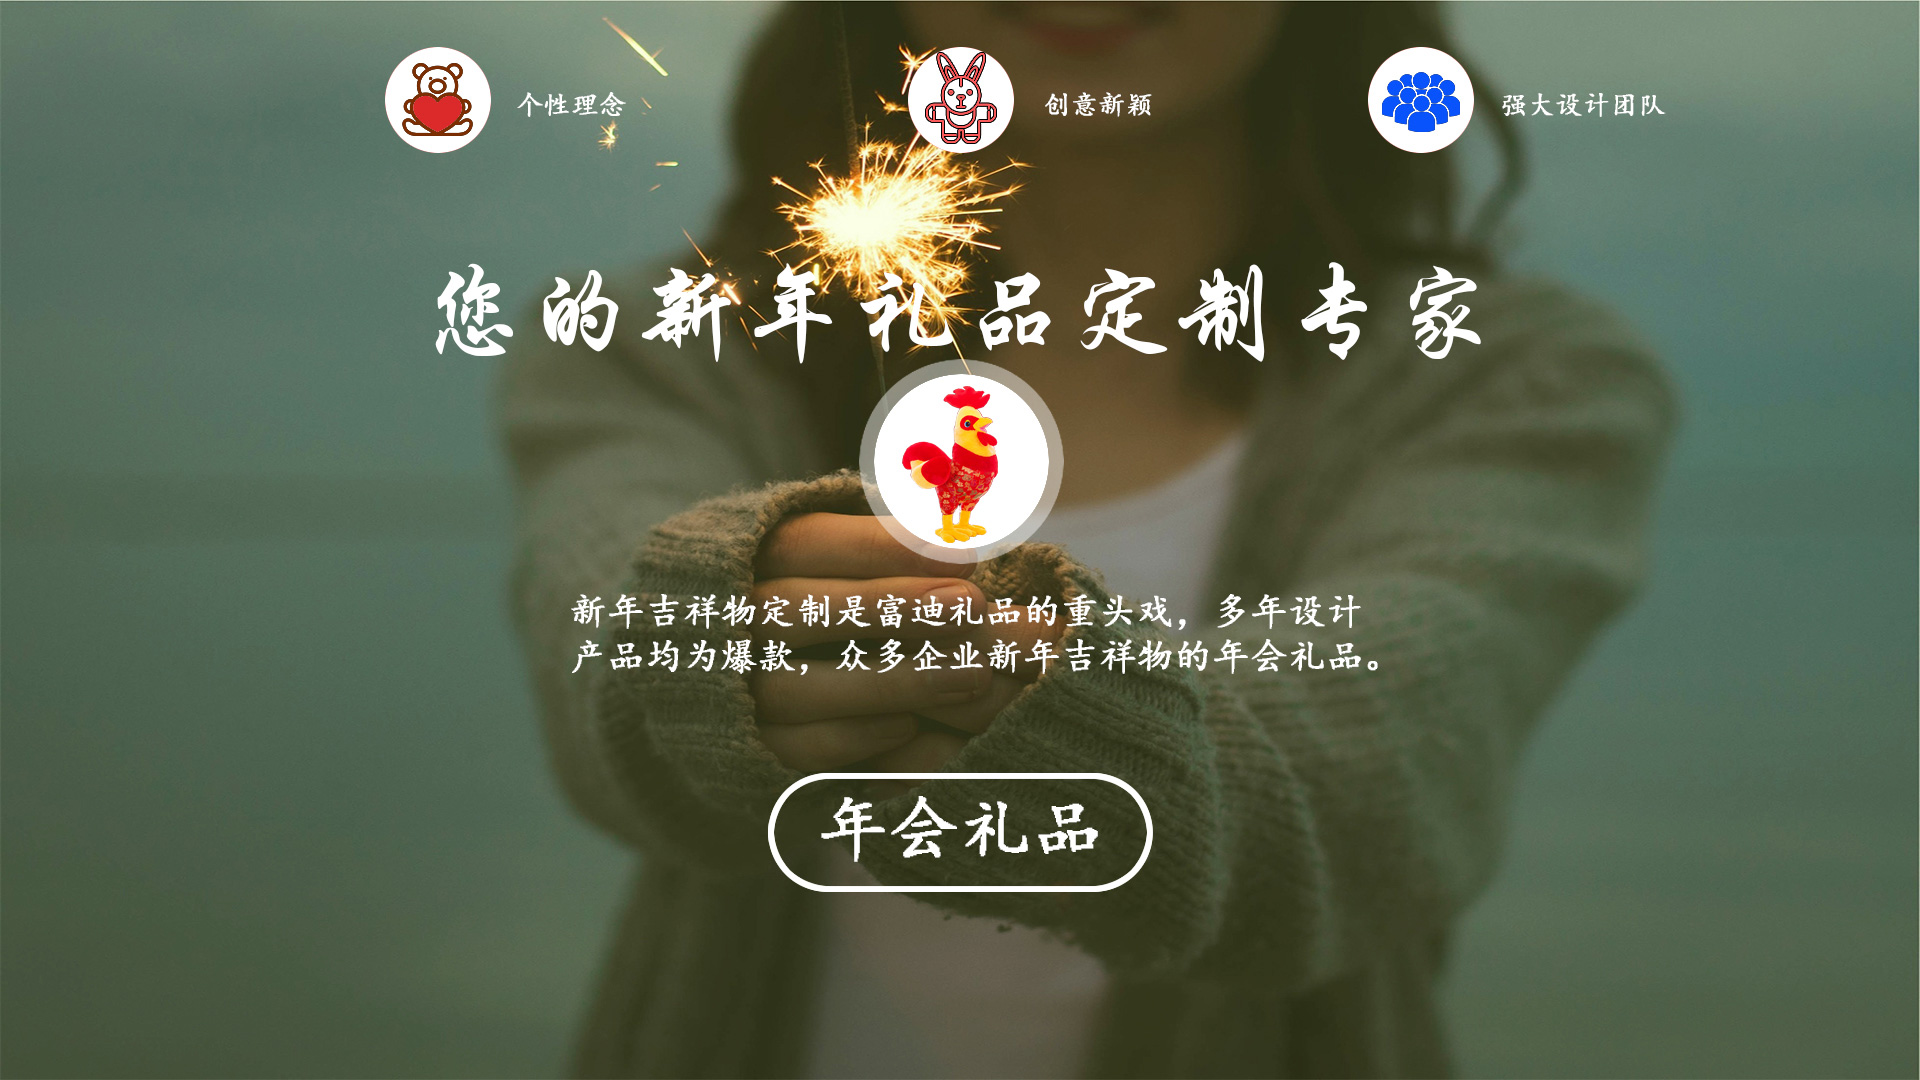
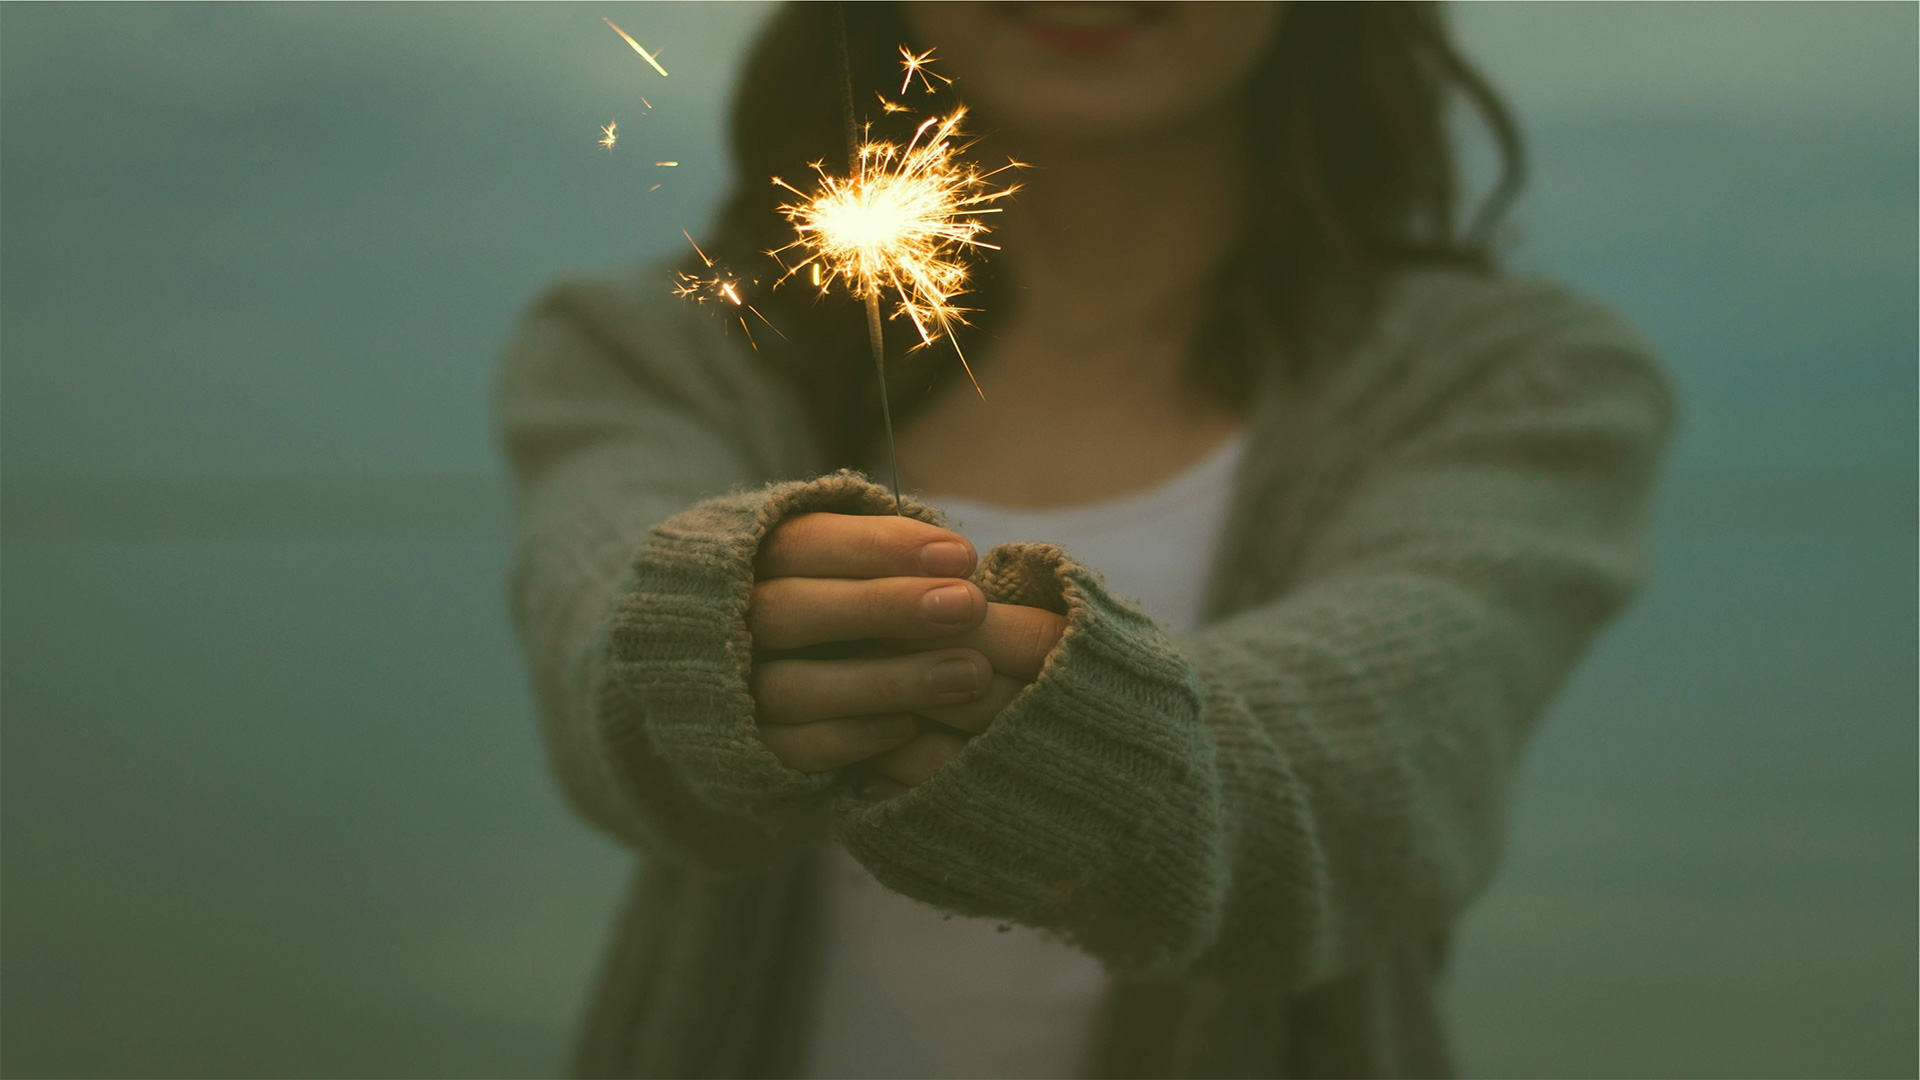
年会礼品

diff --git a/src/pages/Year/YearPage.vue b/src/pages/Year/YearPage.vue
@@ -1,0 +1,131 @@
+<template>
+  <div class="year-container">
+      <img class="carousel-img" src="../../assets/img/c-year.jpg">
+        <div class="year-content">
+            <div class="year-header">
+                <Row>
+                <Col span="8" class="head-info">
+                    <img class="head-logo" src="../../assets/img/year-logo1.png">
+                    <span class="head-value">个性理念</span>
+                </Col>
+                <Col span="8" class="head-info">
+                    <img class="head-logo" src="../../assets/img/year-logo2.png">
+                    <span class="head-value">创意新颖</span>
+                </Col>
+                <Col span="8" class="head-info">
+                    <img class="head-logo" src="../../assets/img/year-logo3.png">
+                    <span class="head-value">强大设计团队</span>
+                </Col>
+                </Row>
+            </div>
+            <h1 class="year-title">您的新年礼品定制专家</h1>
+            <div class="year-logo-bg">
+                <img class="year-logo" src="../../assets/img/year-logo.png">
+            </div>  
+            <p class="year-desc">新年吉祥物定制是富迪礼品的重头戏，多年设计产品均为爆款，众多企业新年吉祥物的年会礼品。</p> 
+            <div class="year-bottom">
+                <Button class="year-button" @click="toRouter(`/year`)">年会礼品</Button>
+            </div>
+        </div>
+  </div>
+</template>
+<script>
+export default {
+  data() {
+    return {
+
+    }
+  },
+  methods: {
+    toRouter(route) {
+      this.$router.push({
+        path: route
+      });
+    }
+  }
+};
+</script>
+<style lang="scss" scoped>
+.year-container {
+    width: 100%;
+    height: 100%;
+    position: relative;
+    .carousel-img {
+        width: 100%;
+        height: 100%;
+        max-width: 100%;
+        max-height: 100%;
+    }
+    .year-content {
+        position: absolute;
+        position: absolute;
+        width: 60%;
+        left: 20%;
+        top: 0;
+        .head-info {
+            padding: 0.5rem 0.25rem;
+            float: left;
+            .head-logo {
+                width: 0.8rem;
+                height: 0.8rem;
+                vertical-align: middle;
+            }
+            .head-value {
+                vertical-align: middle;
+                margin-left: 0.125rem;
+                color: #fff;
+                font-family: "STKaiti";
+                font-size: 0.2rem;
+            }
+        }
+        .year-title {
+            color: #fff;
+            font-family: "STXingkai";
+            font-size: 0.8rem;
+            text-align: center;
+        }
+        .year-logo-bg {
+            width: 1.8rem;
+            height: 1.8rem;
+            background: rgba(255, 255, 255, 0.5);
+            border-radius: 0.9rem;
+            margin: 0 auto;
+            margin-top: 0.25rem;
+            margin-bottom: 0.25rem;
+            .year-logo {
+                width: 1.5rem;
+                height: 1.5rem;
+                margin: 0.15rem 0.15rem;
+            }
+        }
+        .year-desc {
+            width: 7.4rem;
+            text-align: center;
+            margin: 0 auto;
+            color: #fff;
+            font-family: "STKaiti";
+            font-size: 0.3rem;
+            font-weight: bold;
+            padding: 0.25rem 0.25rem;
+        }
+        .year-bottom {
+            width: 2.8rem;
+            height: 1rem;
+            margin: 0 auto;
+            .year-button {
+            width: 100%;
+            height: 100%;
+            font-family: "STKaiti";
+            font-weight: bold;
+            background: rgba(255, 255, 255, 0);
+            border: 4px solid #fff;
+            border-radius: 0.5rem;
+            color: #fff;
+            font-size: 0.45rem;
+        }
+        }
+    }
+}
+
+</style>
+

diff --git a/src/pages/Home/Home.vue b/src/pages/Home/Home.vue
@@ -15,6 +15,7 @@
                 <custom-page></custom-page>
             </CarouselItem>
             <CarouselItem>
+                <year-page></year-page>
             </CarouselItem>
             <CarouselItem>
             </CarouselItem>
@@ -32,10 +33,11 @@
 <script>
 import HomePage from "./HomePage"
 import CustomPage from '../Custom/CustomPage'
+import YearPage from '../Year/YearPage'
 export default {
   data() {
     return {
-      value: 0,
+      value: 2,
       settings: {
         autoplay: false,
         autoplaySpeed: 6000,
@@ -48,7 +50,8 @@ export default {
   },
   components: {
     "home-page": HomePage,
-    'custom-page': CustomPage
+    'custom-page': CustomPage,
+    'year-page': YearPage
   }
 };
 </script>
